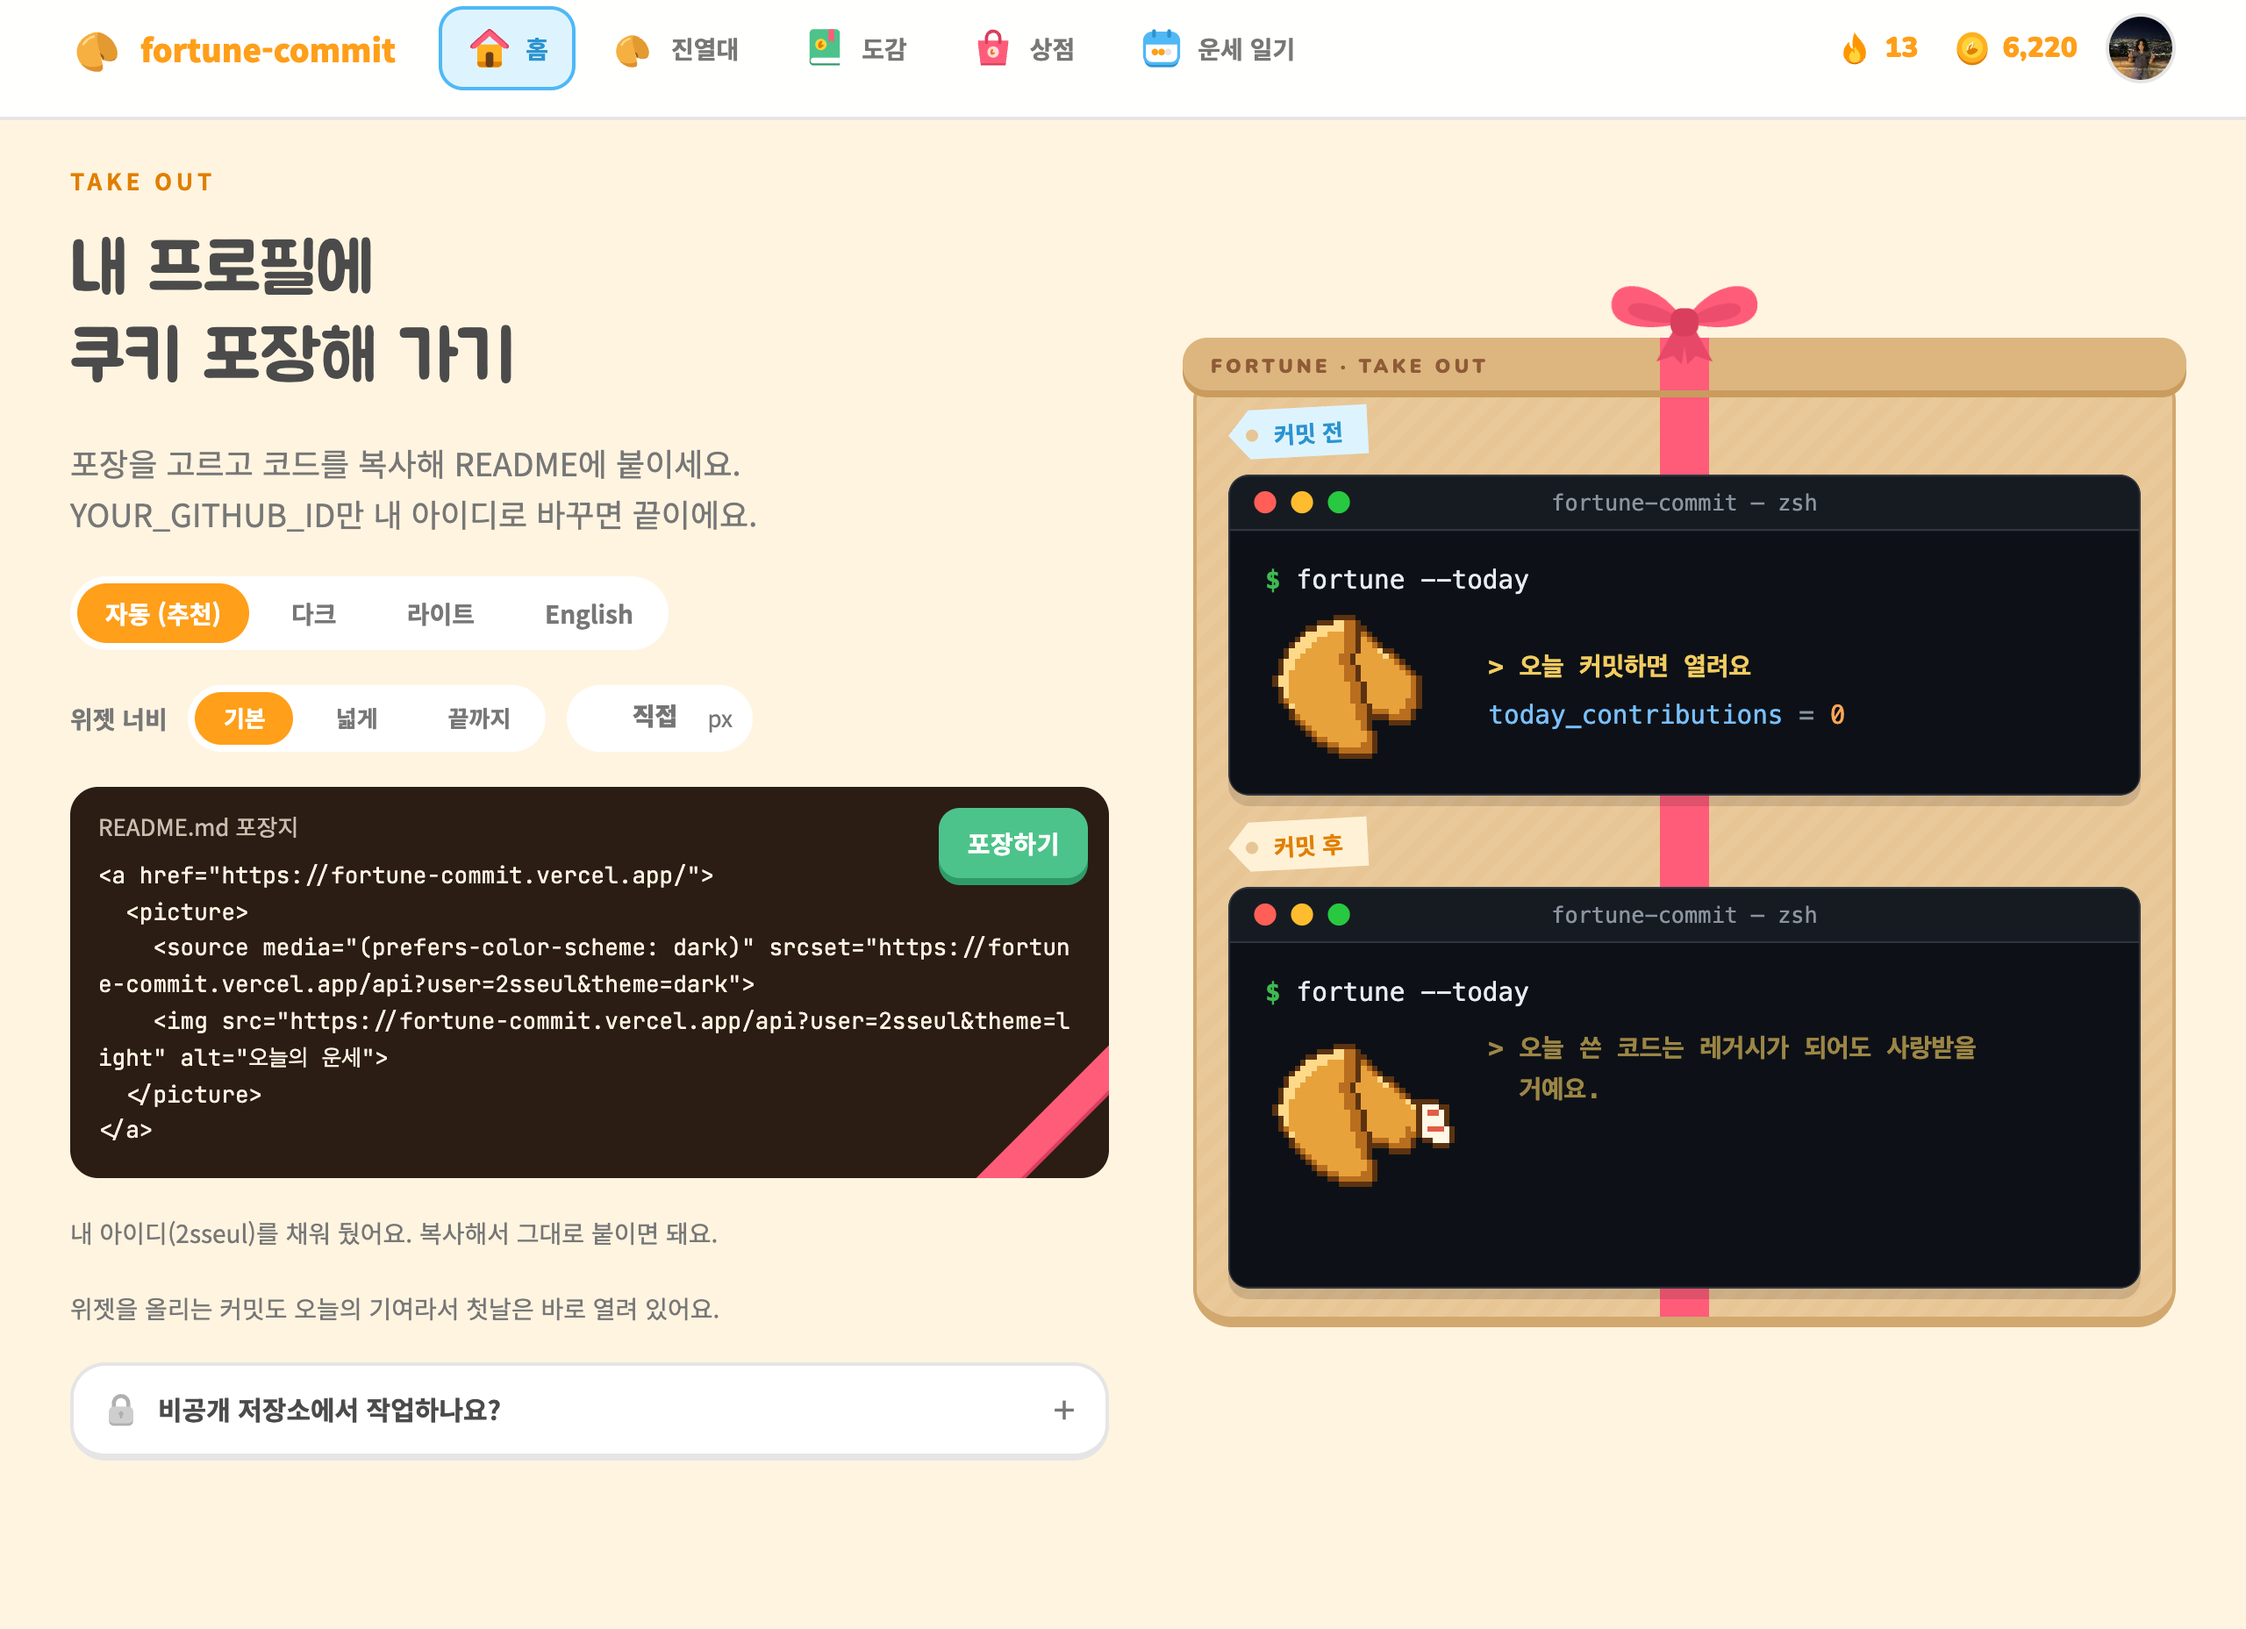
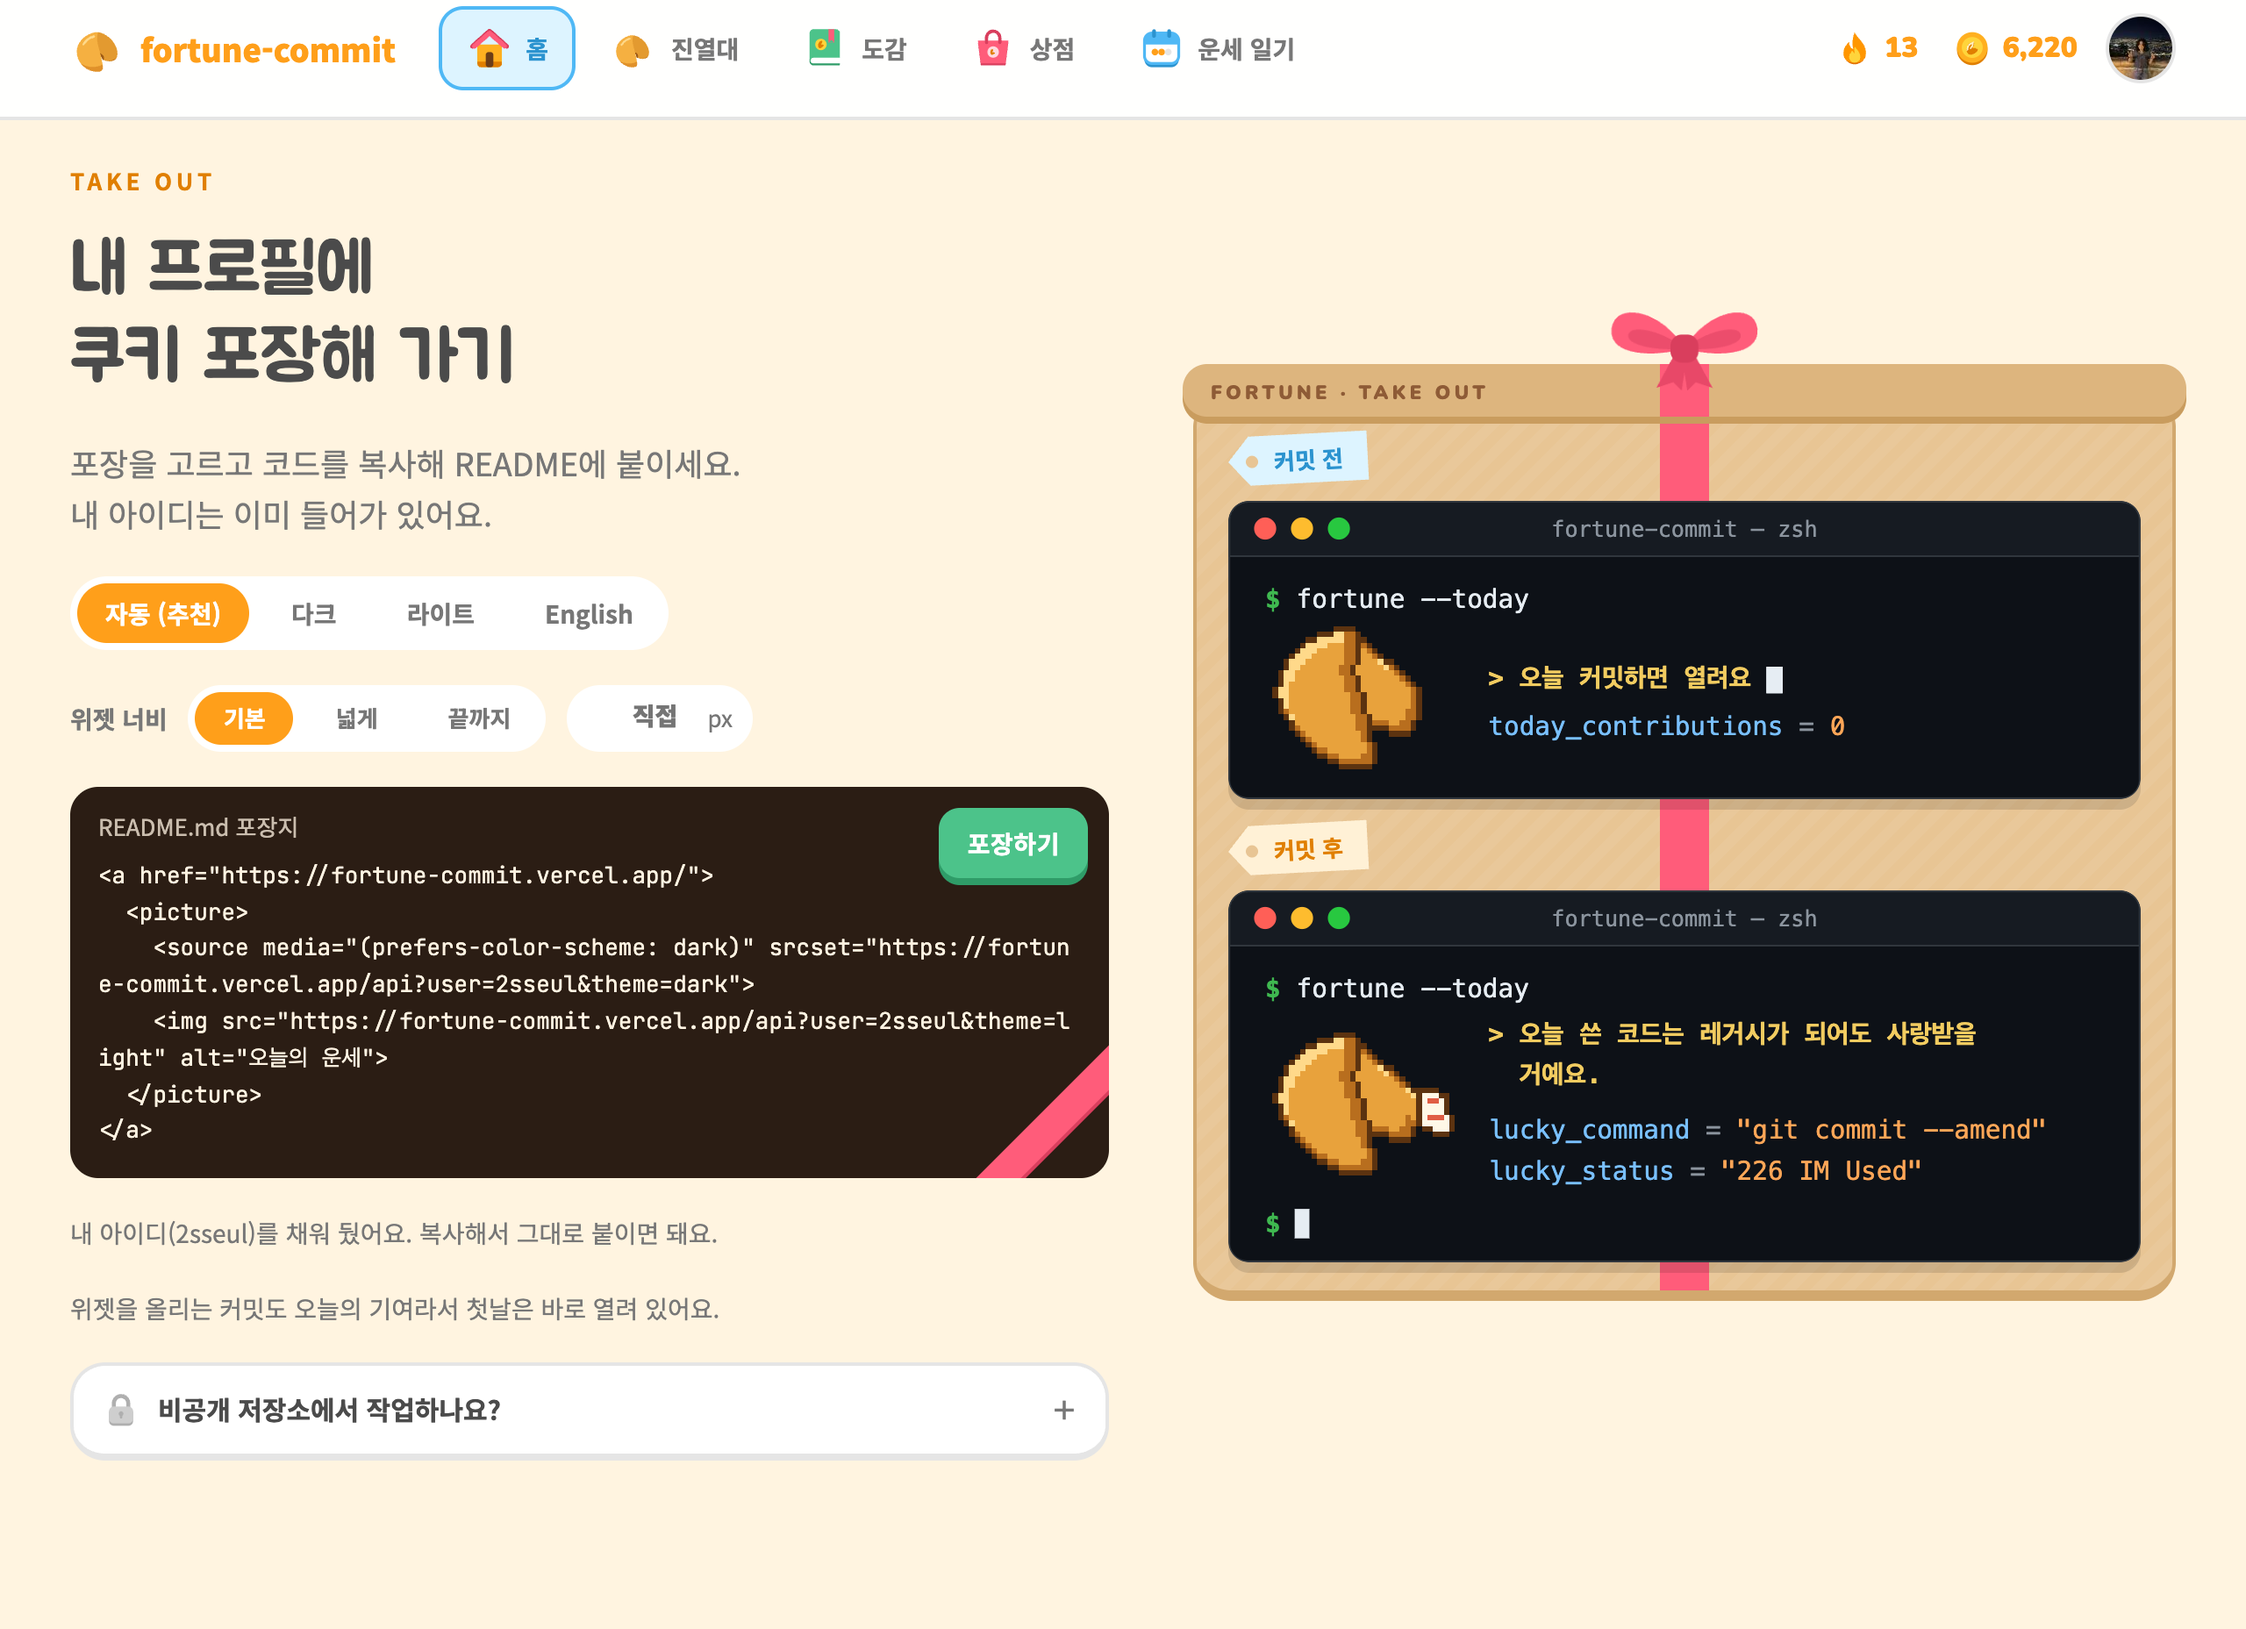
docs: README 캡처를 새 위젯 높이로 다시 찍음, fix: 로그인하면 포장하기 안내도 '내 아이디는 이미 들어가 있어요'로

Changed region(s): [[0.5, 0.1562, 1.0, 0.8121], [0.0312, 0.3123, 0.3438, 0.3436]]

diff --git a/public/index.html b/public/index.html
@@ -414,8 +414,8 @@
         <div class="takeout-text">
           <span class="eyebrow">Take out</span>
           <h2 class="h1 lines"><span>내 프로필에</span><span>쿠키 포장해 가기</span></h2>
-          <p class="body-lg lines pc-only"><span>포장을 고르고 코드를 복사해 README에 붙이세요.</span><span>YOUR_GITHUB_ID만 내 아이디로 바꾸면 끝이에요.</span></p>
-          <p class="body-lg lines m-only"><span>포장을 고르고 코드를 복사해</span><span>README에 붙이세요.</span><span>YOUR_GITHUB_ID만 바꾸면 끝이에요.</span></p>
+          <p class="body-lg lines pc-only"><span>포장을 고르고 코드를 복사해 README에 붙이세요.</span><span id="id-line-pc">YOUR_GITHUB_ID만 내 아이디로 바꾸면 끝이에요.</span></p>
+          <p class="body-lg lines m-only"><span>포장을 고르고 코드를 복사해</span><span>README에 붙이세요.</span><span id="id-line-m">YOUR_GITHUB_ID만 바꾸면 끝이에요.</span></p>
           <div class="pills round" id="tabs" role="tablist" aria-label="포장 고르기"></div>
           <!-- 위젯 너비 (v3): 기본 495 / 넓게 700 / README 끝까지 / 직접 입력(495~1000) -->
           <div class="width-row">
@@ -579,6 +579,8 @@
       me = result;
       if (me.loggedIn) {
         document.getElementById('id-note').textContent = `내 아이디(${me.login})를 채워 뒀어요. 복사해서 그대로 붙이면 돼요.`;
+        document.getElementById('id-line-pc').textContent = '내 아이디는 이미 들어가 있어요.';
+        document.getElementById('id-line-m').textContent = '내 아이디는 이미 들어가 있어요.';
         showPackage(current);
       }
       if (me.loggedIn) document.getElementById('hero-second').textContent = '내 프로필에 올리기';

diff --git a/TODO_v2.md b/TODO_v2.md
@@ -136,7 +136,7 @@
 - 2026-11-01 [테스트 후 변경] 사용자: 다른 쿠키로 장착했는데 README에 바로 반영이 안 됨 → 원인은 GitHub 이미지 프록시(camo)와 Vercel 엣지가 위젯을 최대 1시간 저장하던 것. 장착할 때 프로필 페이지에서 위젯의 camo 주소를 찾아 PURGE (권한 필요 없음), 아이디가 있는 위젯은 엣지에 저장하지 않고 camo 저장 5분, 위젯은 장착 정보를 서버 기억 대신 Redis에서 바로 읽음 (서버 기억도 60초 → 15초)
 - 2026-11-01 [테스트 후 변경] 배포 후 사용자 확인: 장착을 바꾸고 GitHub 프로필을 일반 새로고침하면 안 바뀌고 강력 새로고침해야만 바뀜 → camo는 비웠지만 위젯이 'max-age=300'이라 브라우저가 5분 동안 옛 그림을 씀. 아이디가 있는 위젯은 no-cache(매번 새로 받기)로 바꿈 (미리보기·공통 운세는 그대로 저장)
 - 2026-11-01 [테스트 후 변경] 사용자: README에 새 코드를 넣었는데 장착해도 안 바뀜 → 2sseul 프로필을 확인해 보니 '자동 (추천)' 포장의 YOUR_GITHUB_ID 두 군데(다크용 source, 라이트용 img) 중 라이트 쪽만 바뀌어 있었음. GitHub를 다크 모드로 보면 아이디 없는 위젯이 보여서 장착과 상관없이 기본 쿠키. 캐시 문제가 아니었음(camo 그림 = 직접 받은 그림) → 로그인했으면 포장 코드·진열대 코드에 내 아이디를 자동으로 채우고, 로그인 전에는 'YOUR_GITHUB_ID를 모두(두 군데)' 바꾸라고 안내
-- 2026-11-01 [테스트 후 변경] 사용자: 위젯 터미널이 너무 높음 → 명령어 줄·쿠키 사이와 마지막 프롬프트 위아래 여백을 줄임 (열린 위젯 218→202px, 잠긴 위젯 −12px). 넓은 위젯은 미니 쿠키를 아래에 공간을 늘려 두던 것을 글자 오른쪽 빈 곳에서 뛰게 바꿔 241→184px (글자가 길어 자리가 없을 때만 아래로 늘림)
+- 2026-11-01 [테스트 후 변경] 사용자: 위젯 터미널이 너무 높음 → 명령어 줄·쿠키 사이와 마지막 프롬프트 위아래 여백을 줄임 (열린 위젯 218→202px, 잠긴 위젯 −12px). 넓은 위젯은 미니 쿠키를 아래에 공간을 늘려 두던 것을 글자 오른쪽 빈 곳에서 뛰게 바꿔 241→184px (글자가 길어 자리가 없을 때만 아래로 늘림) → README 캡처도 새 높이로 다시 찍음. 찍다 보니 로그인 상태인데 포장하기 안내가 'YOUR_GITHUB_ID만 바꾸면 끝'으로 남아 있어 '내 아이디는 이미 들어가 있어요'로 바뀌게 고침, 캡처 스크립트는 위젯 글자가 다 나온 뒤 찍게 기다리는 시간을 늘림
 
 ---
 
